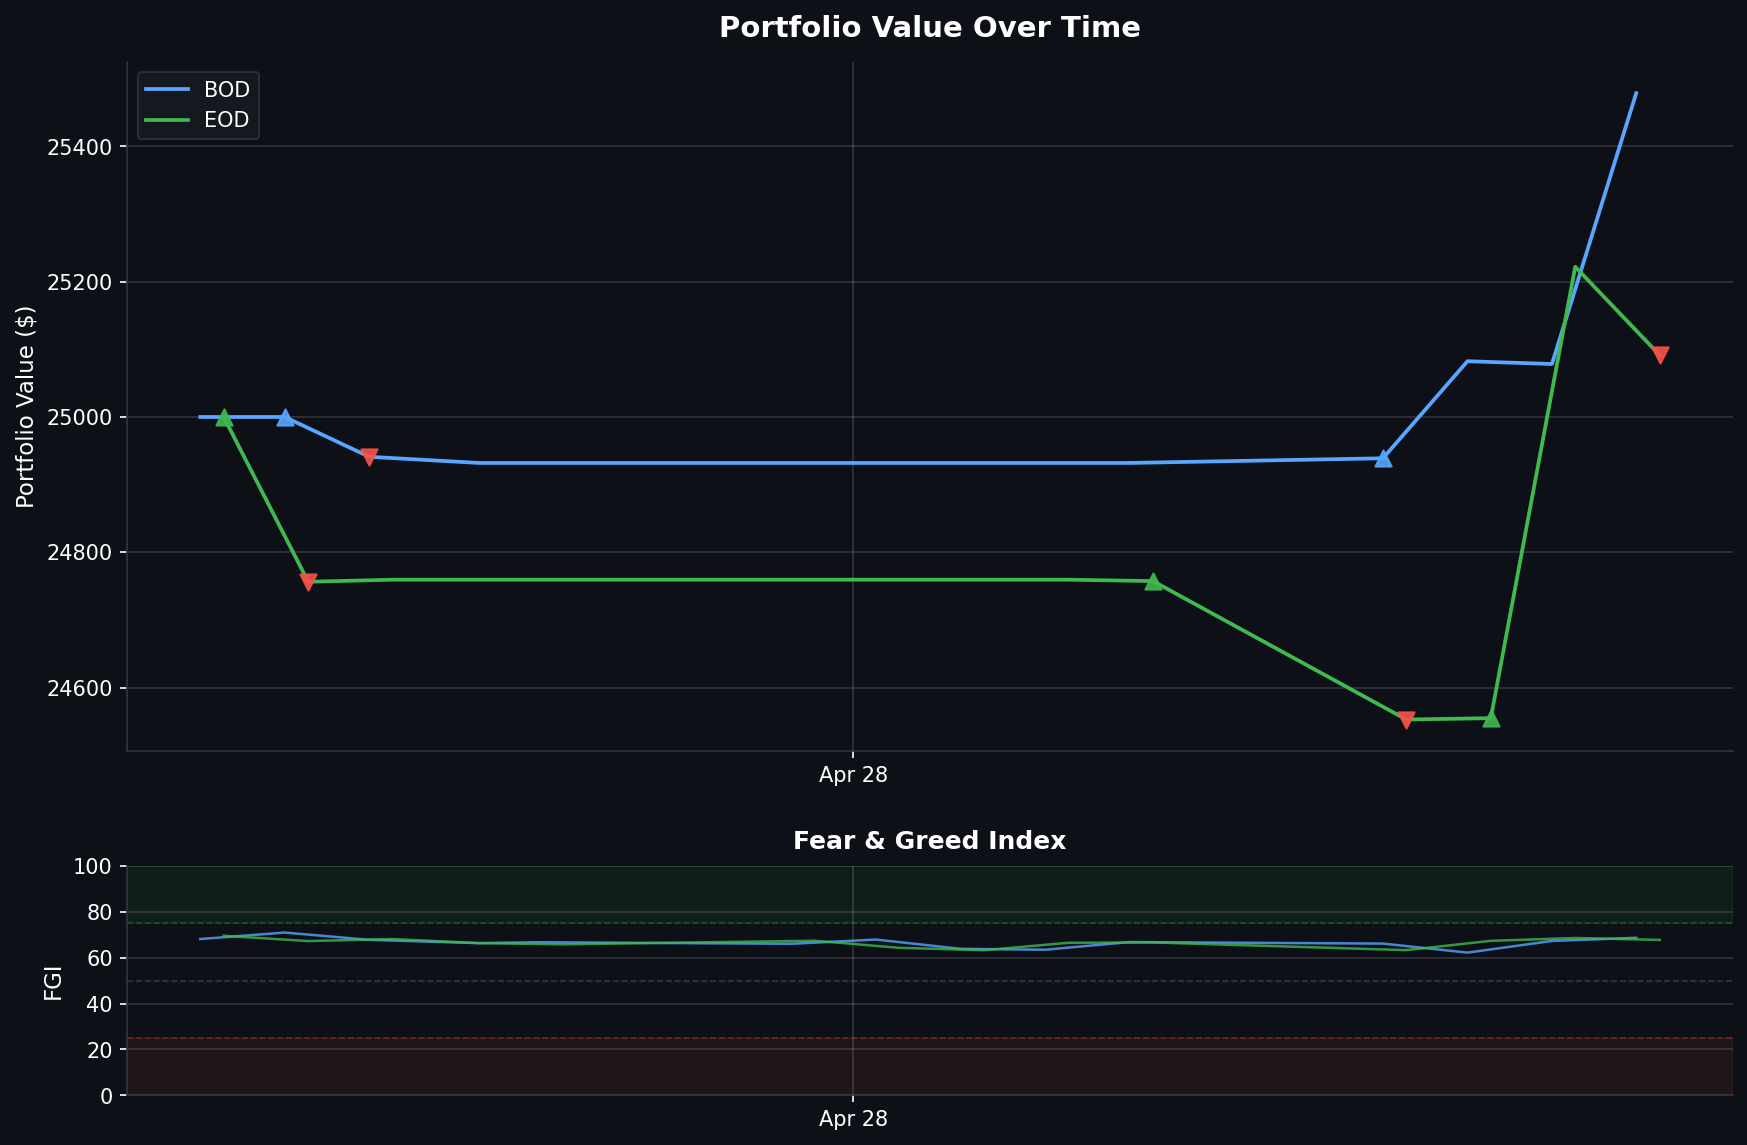
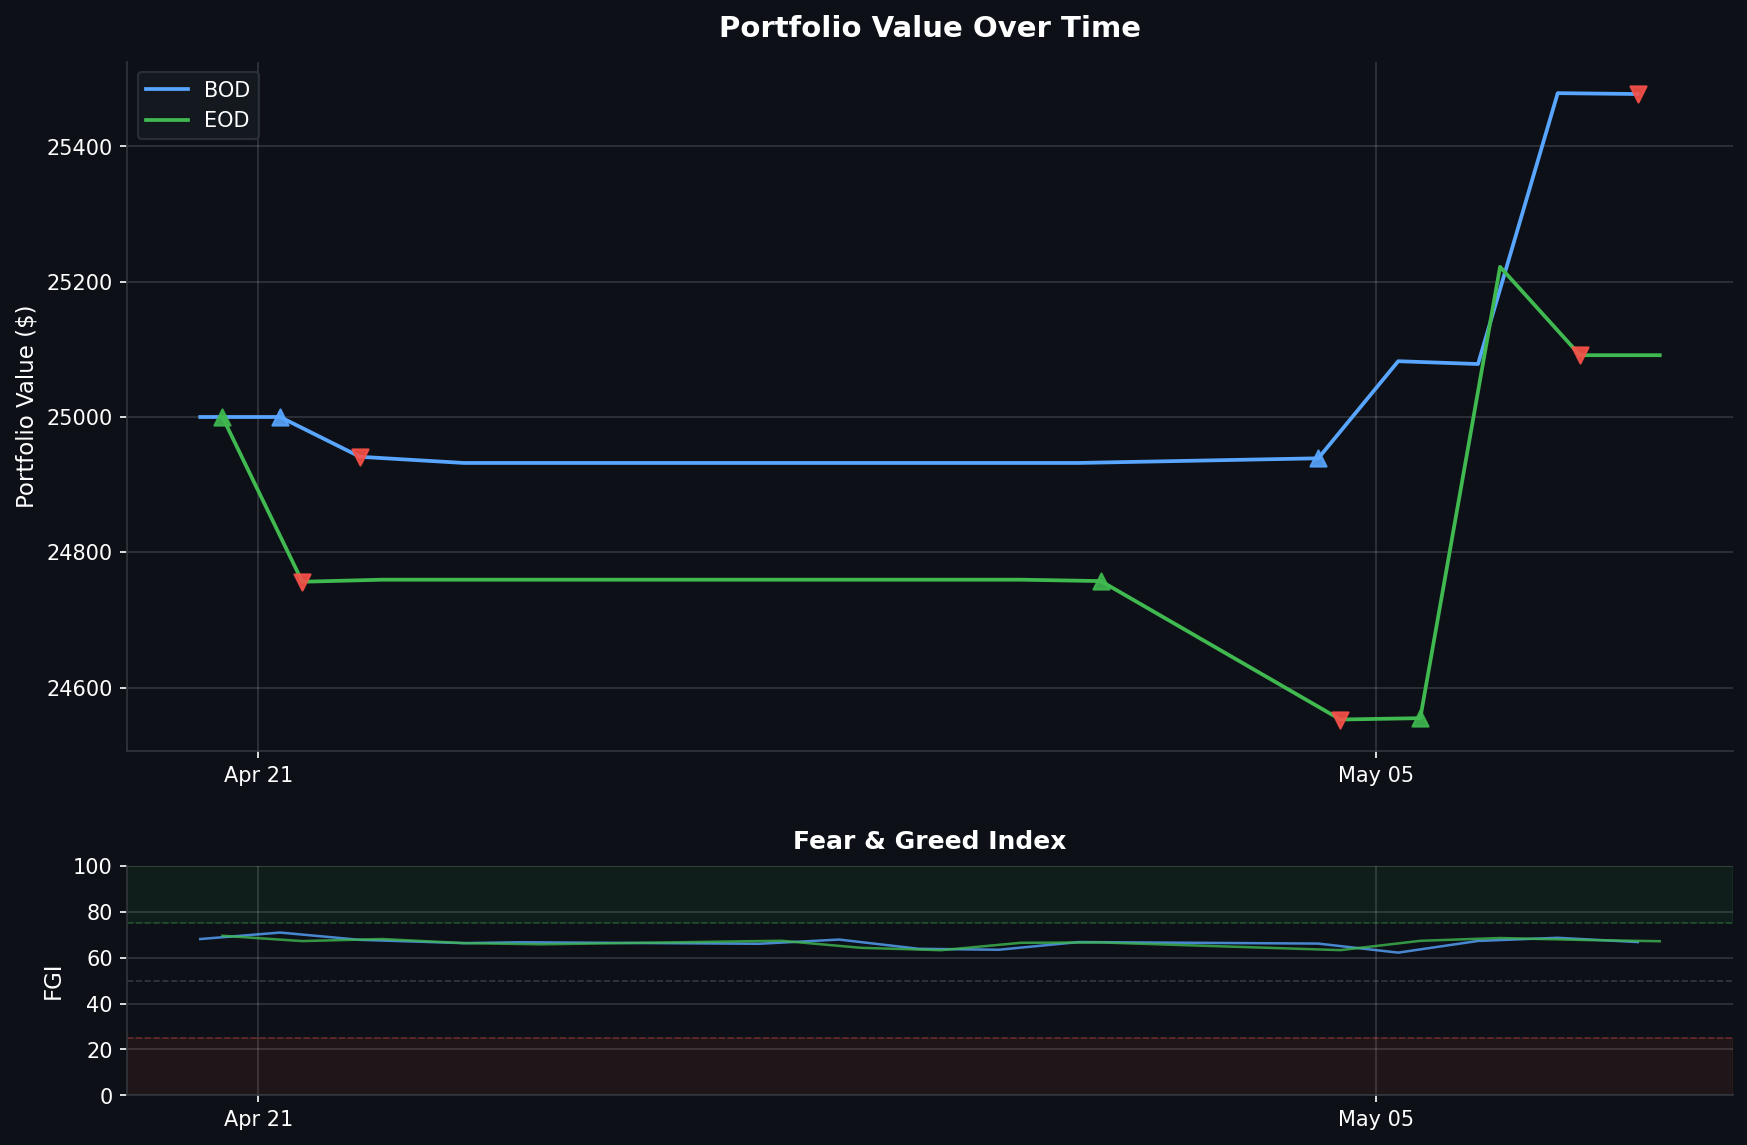
Daily data backup 2026-05-08

diff --git a/README.md b/README.md
@@ -1,6 +1,6 @@
 # Fear & Greed Index Trading Bot
 
-> Dashboard auto-updated daily at market close | Last update: **2026-05-07 13:30 PST**
+> Dashboard auto-updated daily at market close | Last update: **2026-05-08 13:30 PST**
 
 ![Portfolio Performance](assets/portfolio_chart.png)
 
@@ -10,14 +10,14 @@
 
 | Metric | Value |
 |--------|-------|
-| Portfolio Value | **$25,478.78** |
-| Buying Power | $3,918.20 |
-| Current FGI | 68.63 |
-| Position | IN POSITION |
-| Total P&L | **$-68** |
-| Win Rate | 0% (0W / 1L) |
-| Total Round Trips | 1 |
-| Last Signal | NO_ACTION @ 2026-05-07 06:30 |
+| Portfolio Value | **$25,477.50** |
+| Buying Power | $3,900.28 |
+| Current FGI | 66.77 |
+| Position | FLAT |
+| Total P&L | **$+995** |
+| Win Rate | 50% (1W / 1L) |
+| Total Round Trips | 2 |
+| Last Signal | SOLD @ 2026-05-08 06:34 |
 
 <details>
 <summary>Trade History (2 trades)</summary>
@@ -25,7 +25,7 @@
 | Buy Date | Sell Date | Buy Price | Sell Price | Qty | P&L | Return | Result |
 |----------|-----------|-----------|------------|-----|-----|--------|--------|
 | 2026-04-21 | 2026-04-22 | $710.20 | $709.24 | 70 | $-68 | -0.14% | LOSS |
-| 2026-05-04 | — | $719.65 | — | 69 | — | — | OPEN |
+| 2026-05-04 | 2026-05-08 | $719.65 | $735.05 | 69 | $+1,063 | +2.14% | WIN |
 
 </details>
 
@@ -34,11 +34,11 @@
 
 | Time | Action | Price | FGI | Momentum | Velocity | Volatility | Reason |
 |------|--------|-------|-----|----------|----------|------------|--------|
+| 05-08 06:34 | SOLD | $735.05 | 66.77 | -0.78 | 1.53 | 0.1046 | Momentum reversal or high volatility |
 | 05-07 06:30 | NO_ACTION | $735.07 | 68.63 | 2.61 | 0.84 | 0.1017 | Holding position - indicators still favorable (1/8 days) |
 | 05-06 06:33 | NO_ACTION | $728.12 | 67.26 | 2.08 | 0.16 | 0.1226 | BUY order submission failed after 3 attempts: {"buying_power":"607.24","code":40310000,"cost_basis":"50007.2","message":"insufficient buying power"} |
 | 05-05 06:33 | NO_ACTION | $721.80 | 62.17 | -2.85 | -0.42 | 0.1228 | SELL order submission failed after 3 attempts: {"buying_power":"50156.64","code":40310000,"cost_basis":"51313.96","message":"insufficient buying power"} |
 | 05-04 06:32 | BOUGHT | $719.65 | 66.11 | 0.67 | 0.76 | 0.1191 | Strong momentum/velocity, low volatility |
-| 05-01 06:30 | NO_ACTION | $721.32 | 66.77 | 2.09 | -0.36 | 0.1197 | Insufficient momentum/velocity for entry |
 
 </details>
 
@@ -48,14 +48,14 @@
 
 | Metric | Value |
 |--------|-------|
-| Portfolio Value | **$25,091.38** |
-| Buying Power | $50,182.76 |
-| Current FGI | 67.71 |
+| Portfolio Value | **$25,091.36** |
+| Buying Power | $50,182.72 |
+| Current FGI | 67.14 |
 | Position | FLAT |
 | Total P&L | **$+9** |
 | Win Rate | 33% (1W / 2L) |
 | Total Round Trips | 3 |
-| Last Signal | SOLD @ 2026-05-07 13:11 |
+| Last Signal | NO_ACTION @ 2026-05-08 13:10 |
 
 <details>
 <summary>Trade History (3 trades)</summary>
@@ -73,11 +73,11 @@
 
 | Time | Action | Price | FGI | Momentum | Velocity | Volatility | Reason |
 |------|--------|-------|-----|----------|----------|------------|--------|
+| 05-08 13:10 | NO_ACTION | $737.53 | 67.14 | -0.66 | -0.06 | 0.1046 | Insufficient momentum/velocity for entry |
 | 05-07 13:11 | SOLD | $731.90 | 67.71 | -0.14 | 1.48 | 0.1017 | Momentum reversal or high volatility |
 | 05-06 13:10 | NO_ACTION | $733.86 | 68.54 | 2.17 | 0.65 | 0.1226 | Holding position - indicators still favorable (1/8 days) |
 | 05-05 13:11 | BOUGHT | $723.86 | 67.31 | 1.59 | 0.28 | 0.1228 | Strong momentum/velocity, low volatility |
 | 05-04 13:11 | SOLD | $717.38 | 63.26 | -2.18 | 0.01 | 0.1191 | Momentum reversal or high volatility |
-| 05-01 13:11 | BOUGHT | $720.42 | 66.6 | 1.17 | 0.78 | 0.1197 | Strong momentum/velocity, low volatility |
 
 </details>
 
